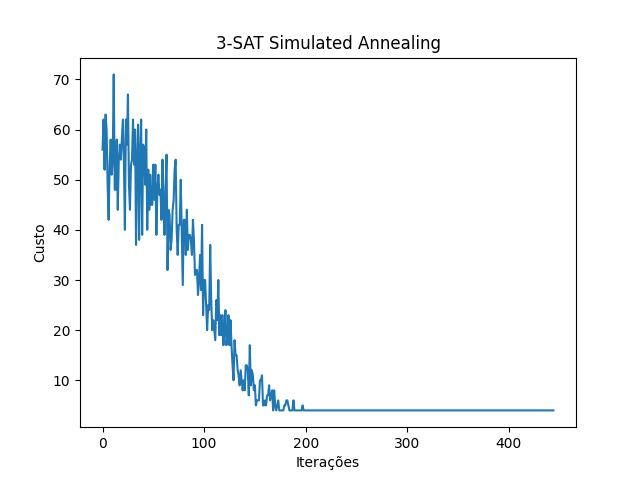
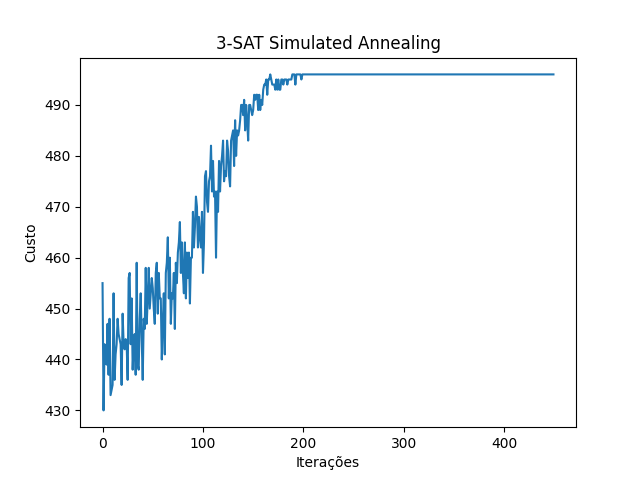
graficos invertidos

diff --git a/solution.py b/solution.py
@@ -87,12 +87,12 @@ class Solution(Sat):
 
             temperatura = self.resfria(temperatura)
             iteracoes.append(t)
-            estados.append(estado.custo)
+            estados.append(estado.sat)
             t = t + 1
             
         plt.plot(iteracoes, estados)
         plt.title("3-SAT Simulated Annealing")
         plt.xlabel('Iterações')
         plt.ylabel('Custo')
-        plt.savefig('sat4.png')    
+        plt.savefig('sat1.png')    
         return best_estado, self.num_clausulas

diff --git a/main.py b/main.py
@@ -25,10 +25,10 @@ def main():
     iter = 0
     alpha = 0.98
     lacointerno = 1000
-    #arquivocnf = ["SAT1.txt"]
+    arquivocnf = ["SAT1.txt"]
     #arquivocnf = ["SAT2.txt"]
     #arquivocnf = ["SAT3.txt"]
-    arquivocnf = ["SAT4.txt"]
+    #arquivocnf = ["SAT4.txt"]
     #arquivocnf = ["NM1.txt"]
     #arquivocnf = ["NM2.txt"]
     #arquivocnf = ["NM3.txt"]
